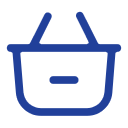
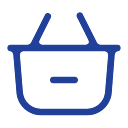
11
11

diff --git a/home.html b/home.html
@@ -29,7 +29,7 @@
                     <!-- 리포트 -->
                     <a class="menu-item" href="report.html">
                         <span class="menu-ico">
-                            <img src="images/report.png" alt="리포트" width="48" height="48"/>
+                            <img src="images/report.png" alt="리포트" width="55" height="55"/>
                         </span>
                         <span class="menu-txt">리포트</span>
                     </a>
